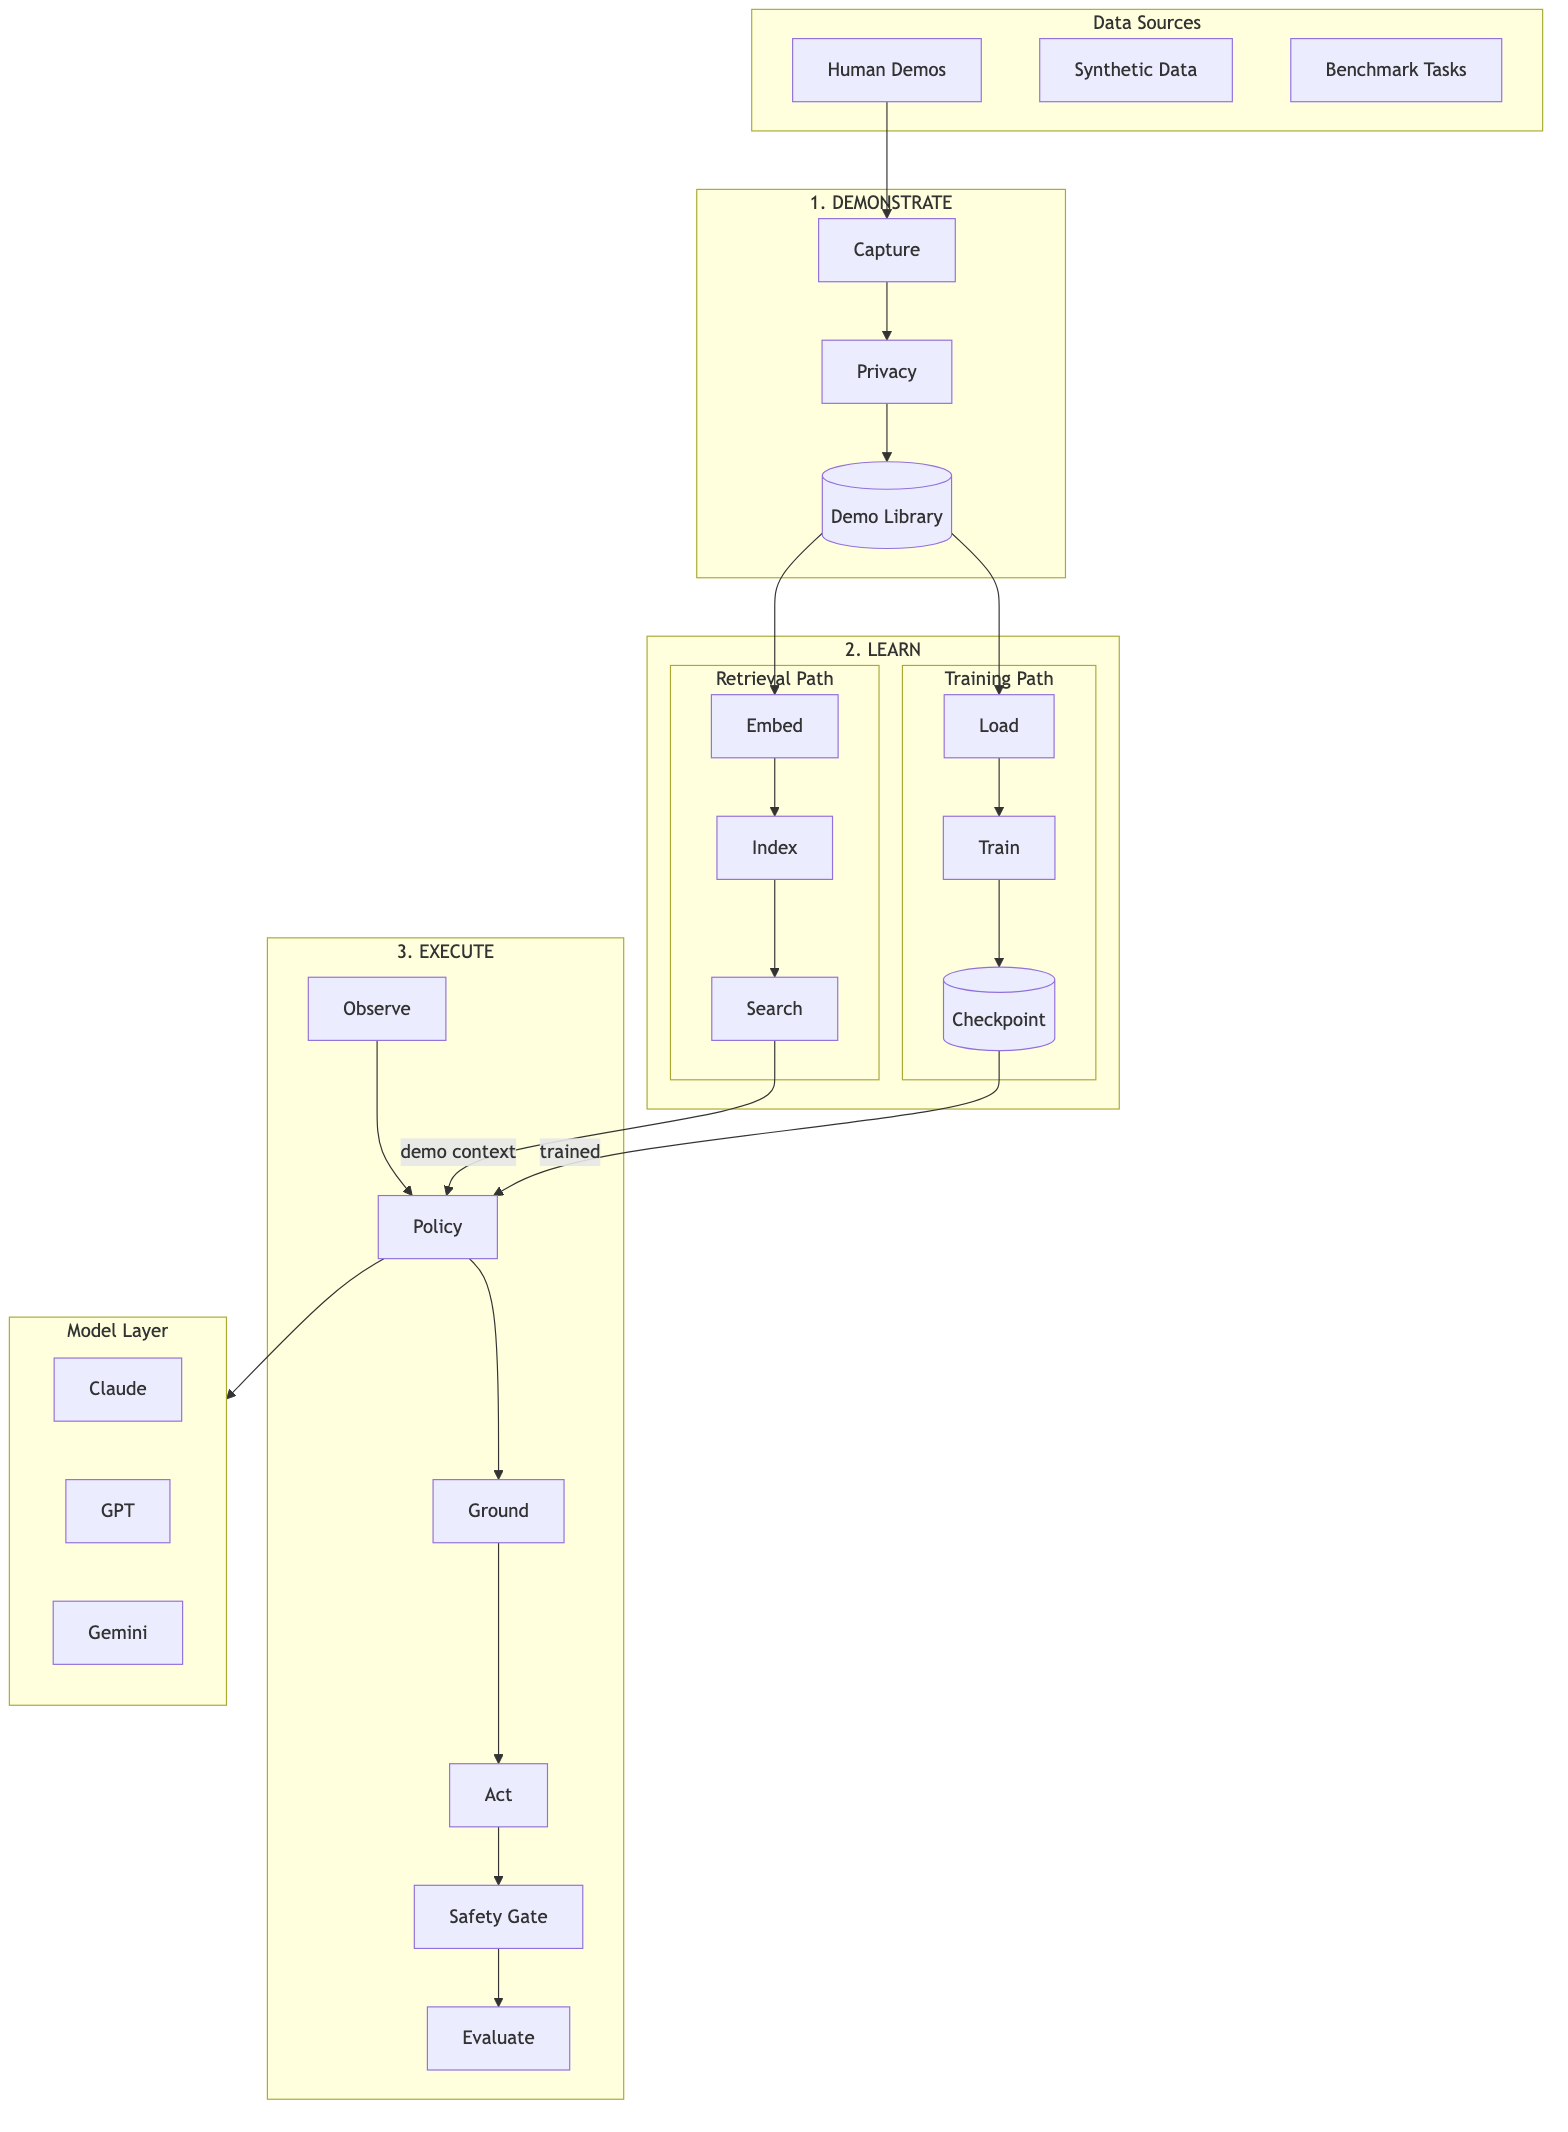
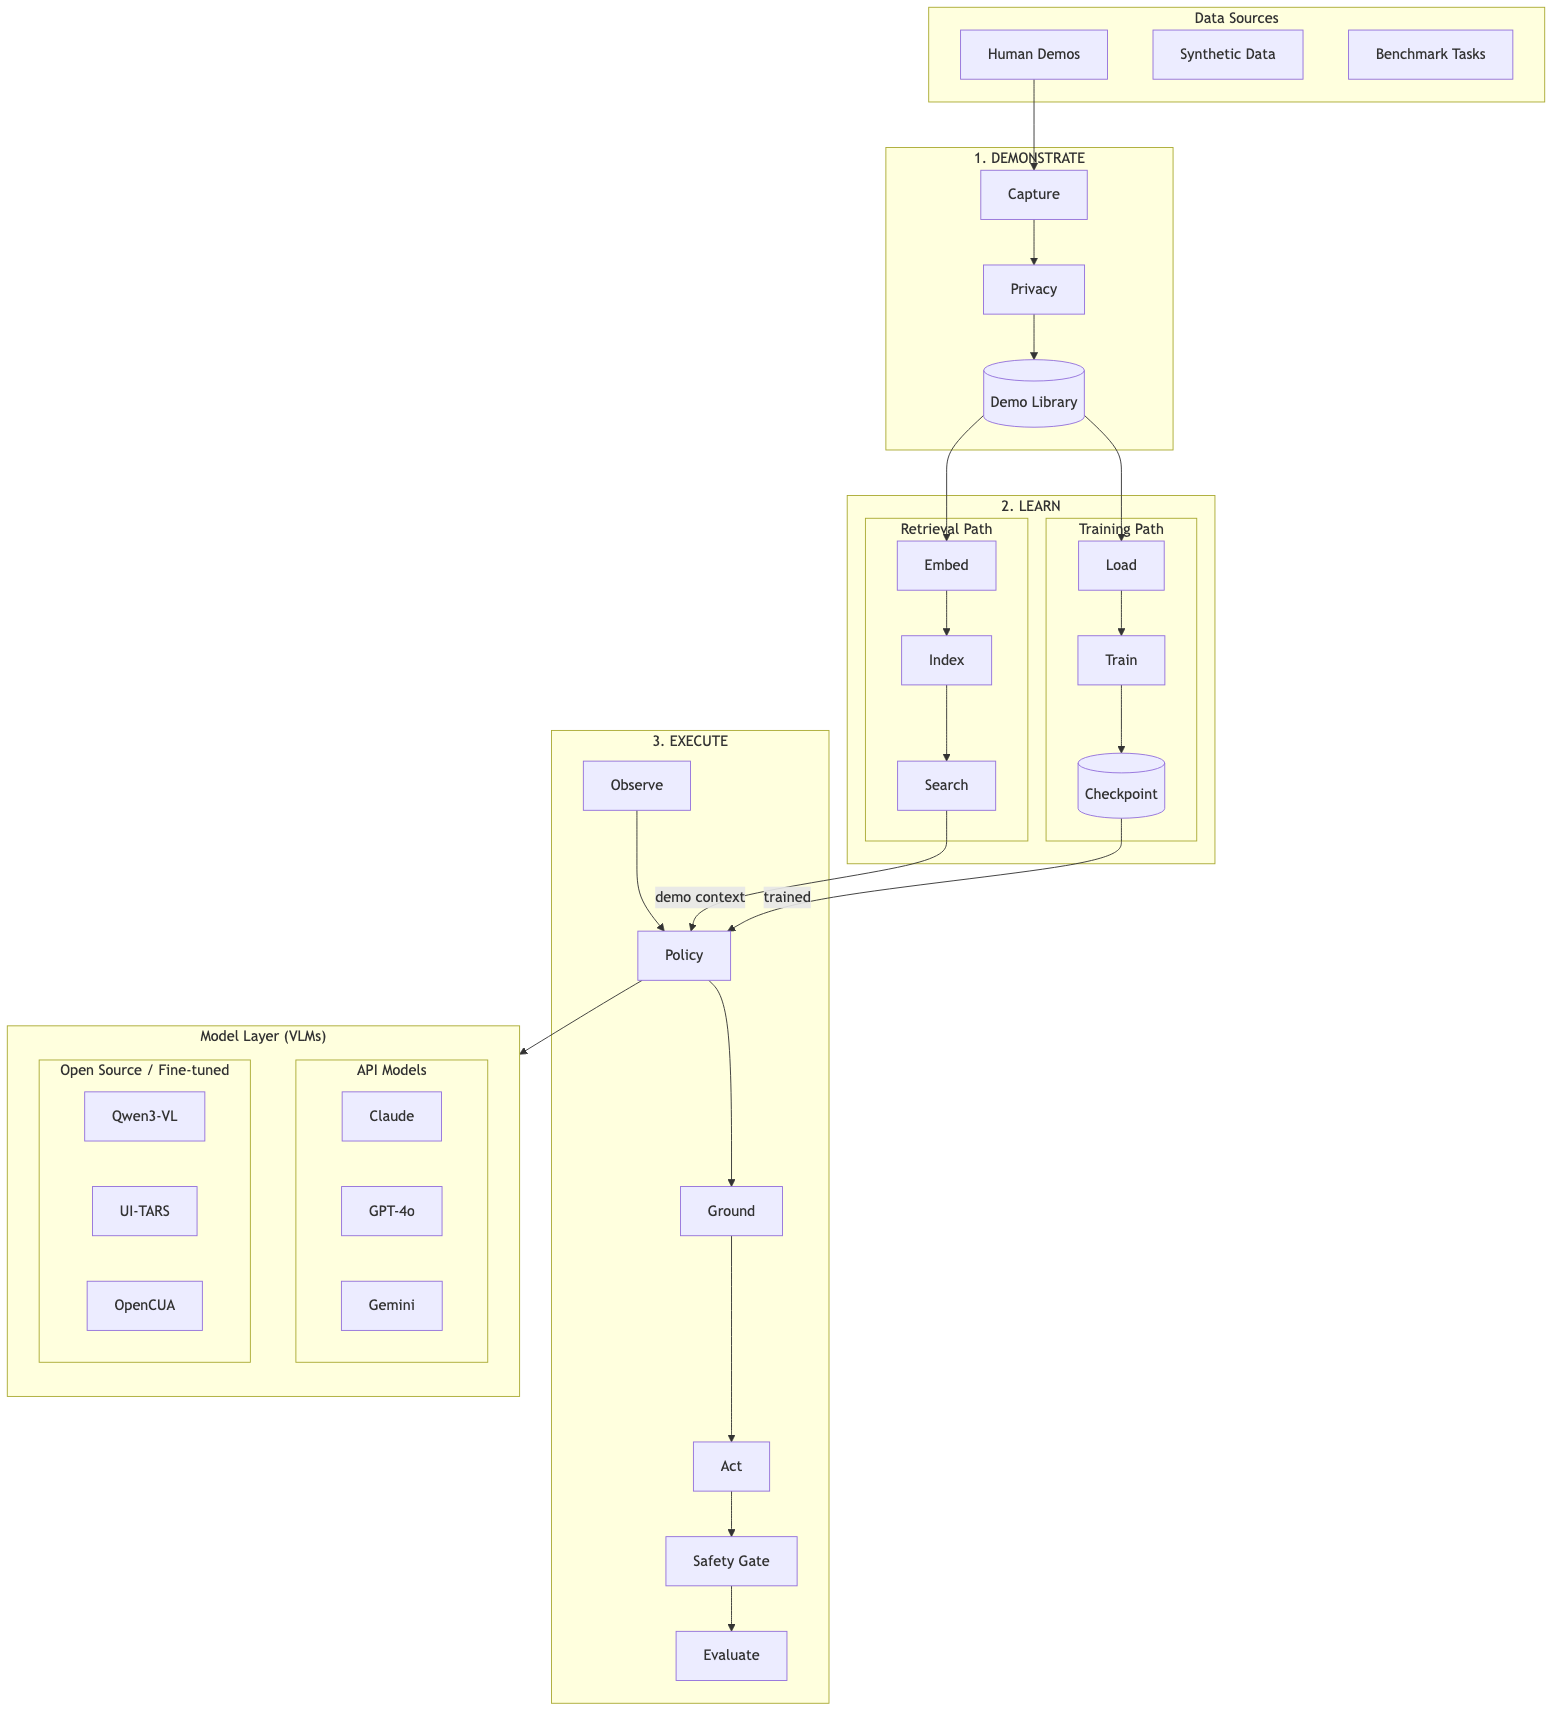
docs: Add open source models to architecture diagram
Model Layer now shows two categories:
- API Models: Claude, GPT-4o, Gemini
- Open Source / Fine-tuned: Qwen3-VL, UI-TARS, OpenCUA

Changed region(s): [[0.0, 0.0, 1.0, 0.9988]]

diff --git a/README.md b/README.md
@@ -212,11 +212,19 @@ flowchart TB
     %% MODEL LAYER
     %% ═══════════════════════════════════════════════════════════════════════
     subgraph Models["Model Layer (VLMs)"]
-        direction LR
-        CLAUDE["Claude"]
-        GPT["GPT-4o"]
-        GEMINI["Gemini"]
-        QWEN["Qwen-VL"]
+        direction TB
+        subgraph APIModels["API Models"]
+            direction LR
+            CLAUDE["Claude"]
+            GPT["GPT-4o"]
+            GEMINI["Gemini"]
+        end
+        subgraph OpenSource["Open Source / Fine-tuned"]
+            direction LR
+            QWEN3["Qwen3-VL"]
+            UITARS["UI-TARS"]
+            OPENCUA["OpenCUA"]
+        end
     end
 
     %% ═══════════════════════════════════════════════════════════════════════
